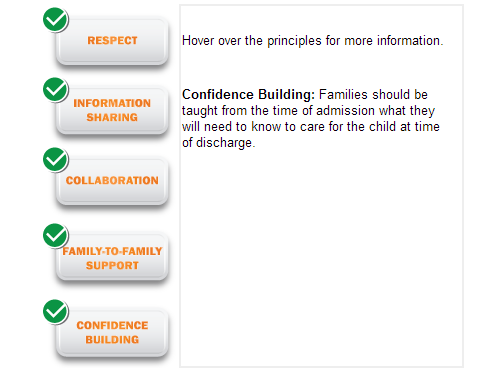
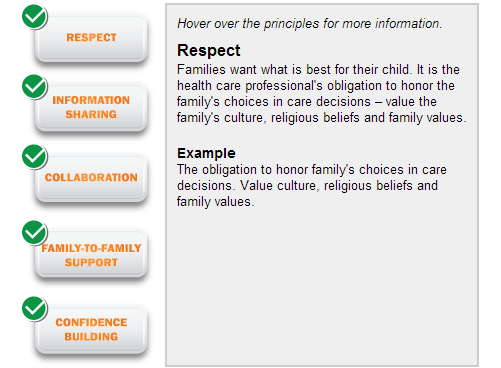
Update to first commit

Changed region(s): [[0.0292, 0.0, 0.9645, 1.0]]

diff --git a/index.html b/index.html
@@ -11,27 +11,18 @@
         <script>
     $(function() {
        var selectedAnswers = [0,0,0,0,0]
-            ,correctAnswers = [4,3,1,5,2];
     	 var $sel = {
         	answers : $('#a1, #a2, #a3, #a4, #a5'),
         	questions : $('#q1, #q2, #q3, #q4, #q5'),
           allQuestions : $('.questions'),
-          questionTop: $('.questionsTop'),
-          fadeIn: $('.fadeIn'),
           explanation: $('.explanation'),
-          topBorder: $('.topBorder'),
-          sideBorder: $('.sideBorder'),
-          bottomBorder: $('.bottomBorder'),
-          a1 : $('#a1'),
-          a2: $('#a2'),
-          a3: $('#a3'),
-          a4: $('#a4'),
-          a5: $('#a5')
+          principles : $('.principles'),
+          exampleContent: $('#exampleContent')
         }
         $sel.answers.draggable({
-          revert:"invalid",
-          stack: '.dropAnswer'
+          revert:"invalid"
         });
+           
         $sel.questions.droppable({
         	hoverClass: 'dropAnswerActive', 
           tolerance:"intersect",
@@ -54,78 +45,99 @@
             for(var a=0; a<selectedAnswers.length; a++) {
               if(selectedAnswers[a] === 0) foundNotSelected = true;
             }
-            if(!foundNotSelected) {
-              for(var a=0; a<selectedAnswers.length; a++) {
-                if(selectedAnswers[a] === correctAnswers[a]) {
-                  $('.cwImage' + a).addClass('correctImage').removeClass('wrongImage');
-                } else {
-                  $('.cwImage' + a).addClass('wrongImage').removeClass('correctImage');
-                }
-              }
-                $sel.allQuestions.addClass('visibility');
-                $sel.questionTop.hide();
-                $sel.topBorder.addClass('fadeInTop');
-                $sel.sideBorder.addClass('fadeInSide');
-                $sel.bottomBorder.addClass('fadeInBottom');
-                $sel.fadeIn.fadeIn('slow');
 
-                $sel.a1.hover(function() {
-                  $sel.explanation.html(" "+ "<strong> " + "Collaboration: " + "</strong> " + " The family knows the child and his/her strengths and needs. The medical team provides the medical knowledge. Together the family and medical team can provide the best care for the child.");
-                });
-                 $sel.a2.hover(function() {
-                  $sel.explanation.html(" "+ "<strong> " + "Confidence Building: " + "</strong> " + "  Families should be taught from the time of admission what they will need to know to care for the child at time of discharge.");
-                });
-                  $sel.a3.hover(function() {
-                  $sel.explanation.html(" "+ "<strong> " + "Information Sharing: " + "</strong> " + " The family requires complete and accurate information in order to make decisions in their child's care. The entire medical team has to be willing to give the family information in terms they can understand. The medical team also has the responsibility to determine that the family understands the information and its implications.");
-                });
-                   $sel.a4.hover(function() {
-                  $sel.explanation.html(" "+ "<strong> " + "Respect: " + "</strong> " + " Families want what is best for their child. It is the health care professional's obligation to honor the family's choices in care decisions – value the family's culture, religious beliefs and family values.");
-                });
-                    $sel.a5.hover(function() {
-                  $sel.explanation.html(" "+ "<strong> " + "Family–to–Family Support: " + "</strong> " + " Families often share support as they encounter others in public areas (cafeteria, waiting area, gift shops, etc.). Sometimes a child will have a condition, treatment or diagnosis that makes it helpful to have more formalized support.");
-                });
+            if(!foundNotSelected) {
+              $sel.questions.each(function(index) {
+                var $this = $(this);
+                if(selectedAnswers[index] === (index+1)) {
+                  $('.cwImage' + index).removeClass('wrongImage').addClass('correctImage');
+                } else {
+                  $('.cwImage' + index).removeClass('correctImage').addClass('wrongImage');
+                }
+              });
+            
+              $sel.allQuestions.addClass('visibility');
+              $sel.explanation.show();
+
+              $sel.answers.hover(function() {
+                $sel.principles.hide();
+                // determine the number
+                var selectedAnswer = $(this).attr("number");
+                // unhide the correct description
+                var answers = $("#" + selectedAnswer).show();
+                // add the original example
+                $sel.exampleContent.html($(".questions[number='" + selectedAnswer + "']").html());
+              });
+
             }
           }
         });
 });
     </script>
-
     </head>
     <body>
     	<div id="wrapper">
         <table class="allQA">
           <tbody>
             <tr>
-              
               <td class="answers"><span class="cwImage0"></span><div class="dragAnswer" id="a1" number="1"></div></td>
-              <td class="questionAnswer"><div class="dropAnswer" id="q1" number="1"></div></td>
-              <td class="topBorder"><span class="explanation"></span><span class="fadeIn">Hover over the principles for more information.</span><span class="questionsTop">The obligation to honor family's choices in care decisions. Value culture, religious beliefs and family values.</span> </td>
-              
+              <td class="questionAnswer"><div class="dropAnswer" id="q1" number="4"></div></td>
+              <td><span class="questions" number="4">The obligation to honor family's choices in care decisions. Value culture, religious beliefs and family values.</span> </td>
             </tr>
             <tr>
               <td class="answers"><span class="cwImage1"></span><div class="dragAnswer" id="a2" number="2"></div></td>
-              <td class="questionAnswer"><div class="dropAnswer" id="q2" number ="2"></div></td>
-              <td class="sideBorder"><span class="questions">The entire medical team is willing to give the family information in terms they understand.</span></td>
+              <td class="questionAnswer"><div class="dropAnswer" id="q2" number ="3"></div></td>
+              <td><span class="questions" number="3">The entire medical team is willing to give the family information in terms they understand.</span></td>
             </tr>
             <tr >
               <td class="answers"><span class="cwImage2"></span><div class="dragAnswer" id="a3" number="3"></div></td>
-              <td class="questionAnswer"><div class="dropAnswer" id="q3" number= "3"></div></td>
-              <td class="sideBorder"><span class="questions">The family and medical team work together to provide the best care for the child.</span></td>
+              <td class="questionAnswer"><div class="dropAnswer" id="q3" number= "1"></div></td>
+              <td class="sideBorder"><span class="questions" number="1">The family and medical team work together to provide the best care for the child.</span></td>
             </tr>
             <tr >
               <td class="answers"><span class="cwImage3"></span><div class="dragAnswer" id="a4" number="4"></div></td>
-              <td class="questionAnswer"><div class="dropAnswer" id="q4" number="4"></div></td>
-              <td class="sideBorder"><span class="questions">Families share support as they encounter others in public areas of the hospital. Support groups and community resources can provide the family with needed information to help them feel secure.</span></td>
+              <td class="questionAnswer"><div class="dropAnswer" id="q4" number="5"></div></td>
+              <td><span class="questions" number="5">Families share support as they encounter others in public areas of the hospital. Support groups and community resources can provide the family with needed information to help them feel secure.</span></td>
             </tr>
             <tr>
               <td class="answers"><span class="cwImage4"></span><div class="dragAnswer" id="a5" number="5"></div></td>
-              <td class="questionAnswer"><div class="dropAnswer" id = "q5" number="5"></div></td>
-              <td class="bottomBorder"><span class="questions">Teaches families from the time of admission what they will need to know to care for the child after discharge.</span> </td>
+              <td class="questionAnswer"><div class="dropAnswer" id = "q5" number="2"></div></td>
+              <td><span class="questions" number="2">Teaches families from the time of admission what they will need to know to care for the child after discharge.</span> </td>
             </tr>
           </tbody>
         </table>
-
     	<!--end of wrapper-->
     	</div>
+      <!--Explanations to be shown after you answers all questions-->
+      <div class="explanation">
+        <div class="instructions">Hover over the principles for more information.</div>
+
+        <div id="1" class="principles">
+          <strong>Collaboration</strong><br/>
+          The family knows the child and his/her strengths and needs. The medical team provides the medical knowledge. Together the family and medical team can provide the best care for the child. 
+        </div>
+
+        <div id="2" class="principles">
+          <strong>Confidence Buildilng</strong><br/>
+          Families should be taught from the time of admission what they will need to know to care for the child at time of discharge.
+        </div>
+
+        <div id="3" class="principles">
+          <strong>Information Sharing</strong><br/>The family requires complete and accurate information in order to make decisions in their child's care. The entire medical team has to be willing to give the family information in terms they can understand. The medical team also has the responsibility to determine that the family understands the information and its implications.
+        </div>
+
+        <div id="4" class="principles">
+          <strong>Respect</strong><br/>Families want what is best for their child. It is the health care professional's obligation to honor the family's choices in care decisions – value the family's culture, religious beliefs and family values.
+        </div>
+
+         <div id="5" class="principles">
+          <strong>Family–to–Family Support</strong><br/>Families often share support as they encounter others in public areas (cafeteria, waiting area, gift shops, etc.). Sometimes a child will have a condition, treatment or diagnosis that makes it helpful to have more formalized support.
+        </div>
+        
+        <div class="example">
+          <div class="exampleLabel">Example</div>
+          <div id="exampleContent"></div>
+        </div>
+      </div>
     </body>
 </html>

diff --git a/main.css b/main.css
@@ -18,6 +18,8 @@ table {
 	cursor: pointer;
 }
 
+.instructions {font-style: italic;}
+
 #a1 {background-image: url('collaboration.png');}
 #a2 {background-image: url('confidence.png');}
 #a3 {background-image: url('information.png');}
@@ -66,36 +68,31 @@ table {
     z-index: 40;
 }
 
-.fadeIn {
-	
-   display: none;
-
-}
-
-.fadeInTop {
-	border-top: 2px solid #eee;
-	border-left: 2px solid #eee;
-	border-right: 2px solid #eee;
-}
-.fadeInSide {
-	border-left: 2px solid #eee;
-	border-right: 2px solid #eee;
-}
-
-.fadeInBottom {
-	border-bottom: 2px solid #eee;
-	border-left: 2px solid #eee;
-	border-right: 2px solid #eee;
-}
-
-.visibility {
-	visibility: hidden;
-}
-
 .explanation {
 	position: absolute;
-	top: 90px;
-	width: 265px;
+	top: 9px;
+	width: 290px;
+	height: 340px;
+	display: none;
+  padding:10px;
+	border: 2px solid #cdcdcd;
+	left:280px;
+  background-color:#efefef;
 }
 
+.principles {
+	display: none;
+	padding-top:10px;
+}
 
+.principles strong {
+  font-size:16px;
+}
+
+.exampleLabel {
+  margin-top:20px;
+  font-size:14px;
+  font-weight:bold;
+} 
+
+.visibility {visibility: hidden;}
